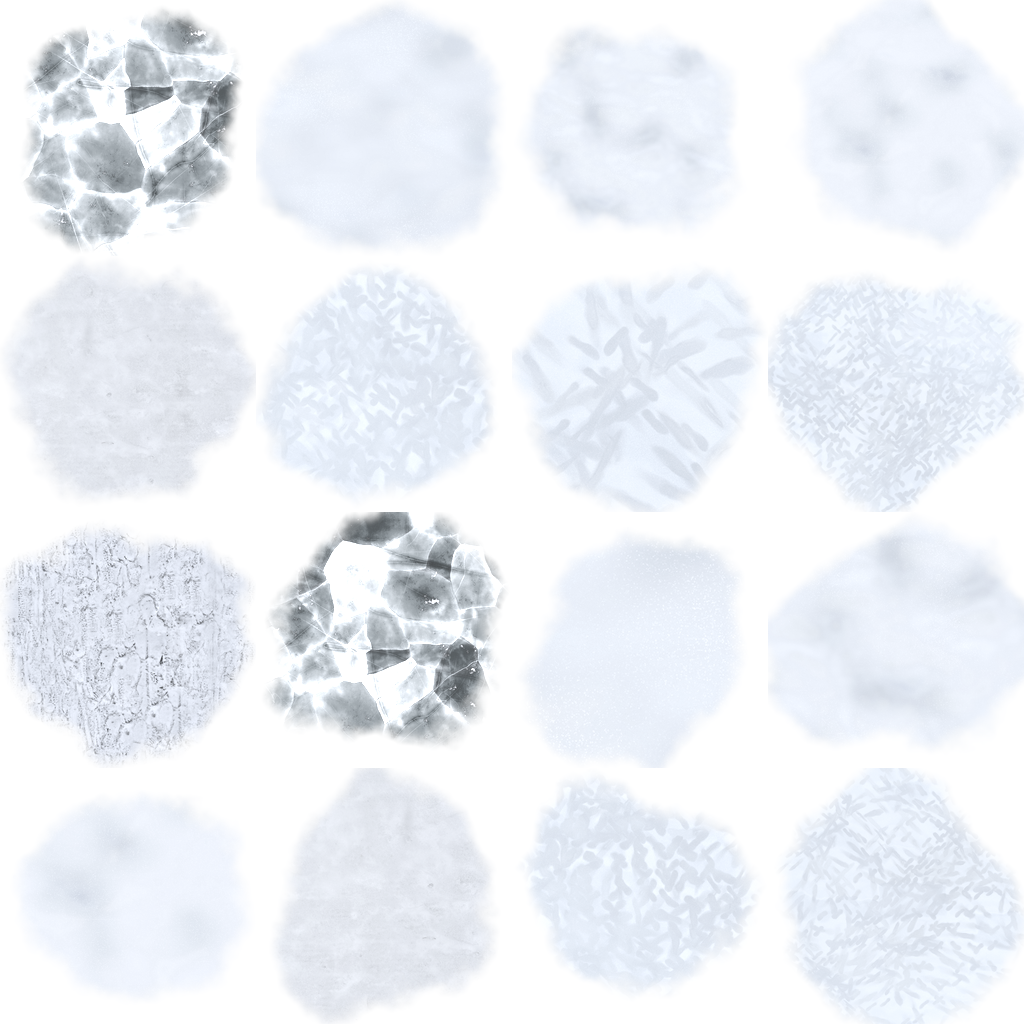
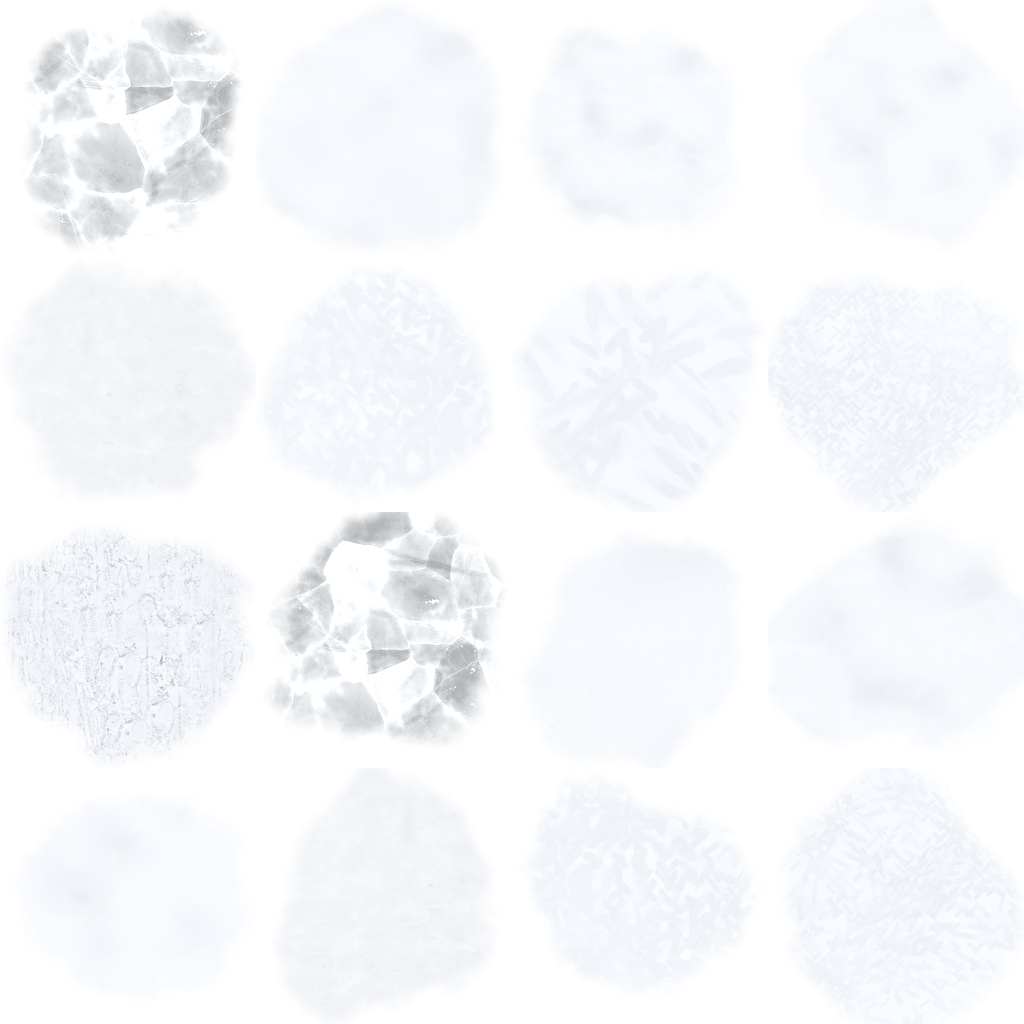
Snow: a lighter snow picture (the dark pits made dark prints), a stronger dusting on the sides, lighter slush, and debug('melt', f) to test the slide-off (debug('snow') adds to the amount instead of melting it)

Changed region(s): [[0.0312, 0.0, 0.25, 0.25], [0.25, 0.5, 0.5, 0.7188], [0.0, 0.5312, 0.25, 0.75]]

diff --git a/mod/vehicles/common/carSurfaceFx/scratch.js b/mod/vehicles/common/carSurfaceFx/scratch.js
@@ -104,7 +104,7 @@
       a = atlases[kind] = { img: new Image(), ok: false };
       a.img.onload = function () { a.ok = true; dirty = true; buildWear(); redraw(); };
       a.img.onerror = function () { a.bad = true; };
-      a.img.src = 'local://local/art/surfacefx/splats/' + kind + '.png?v=2';
+      a.img.src = 'local://local/art/surfacefx/splats/' + kind + '.png?v=3';
     }
     return a.ok ? a.img : null;
   }

diff --git a/tools/make_real_splats.py b/tools/make_real_splats.py
@@ -108,6 +108,7 @@ def snow_cell(rng, img):
     sparkle = droplets(rng, CELL, int(rng.integers(8, 16)), 2, 5, (0.3, 0.9)) * 0.7 * smooth(n, 0.3, 0.7)
     a = np.clip(np.maximum(body, sparkle), 0, 1)
     c = grade(crop(rng, img), (0.93, 0.95, 0.99), 0.75, 1.0)
+    c = np.clip(0.55 + 0.45 * c, 0, 1)                                              # snow is white: the photographs' dark pits made dark prints on the paint
     return np.dstack([c, a])
 
 
